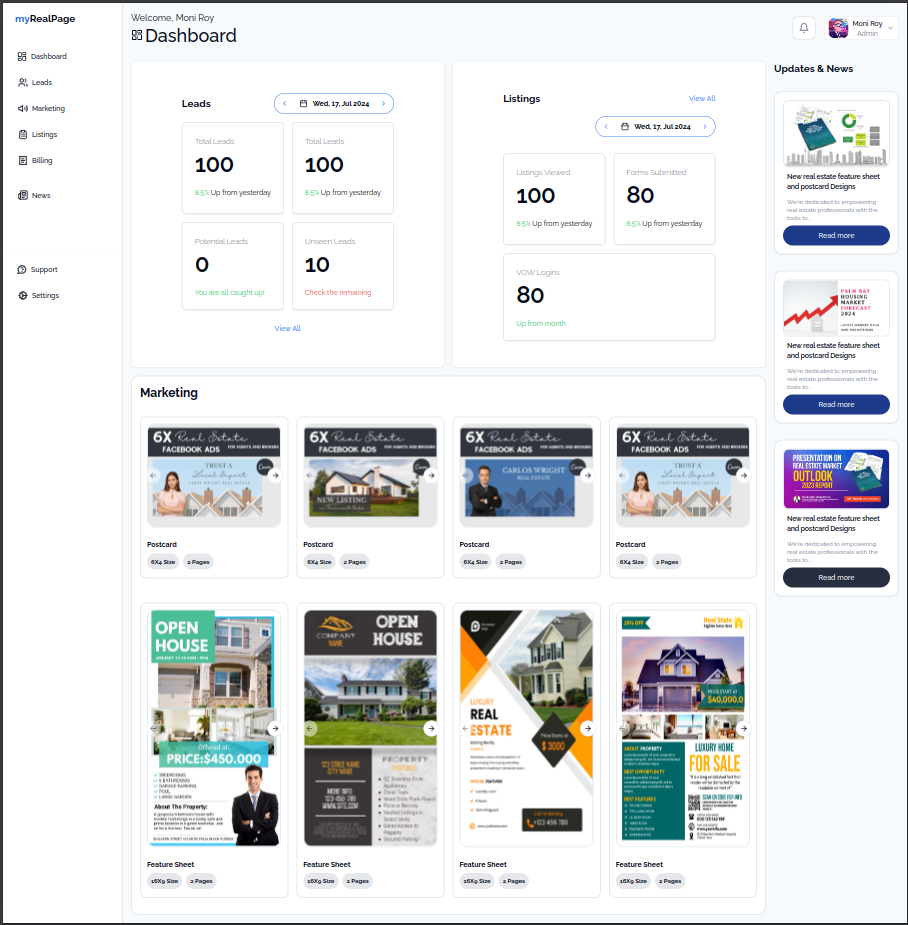
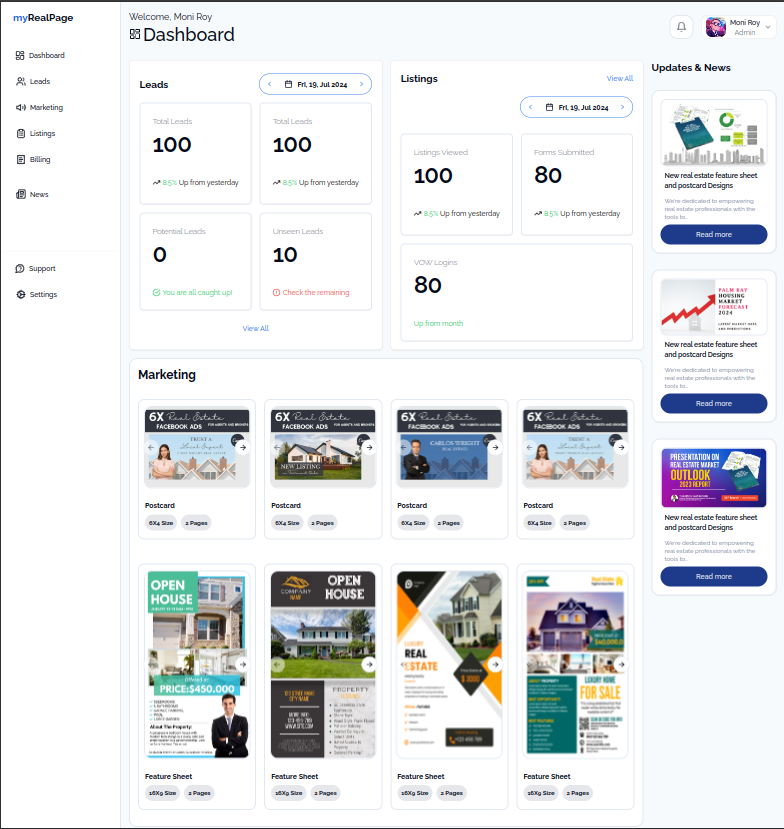
style bug fixed LeadSection and Card and add screenshots

diff --git a/src/components/LeadCard.tsx b/src/components/LeadCard.tsx
@@ -1,4 +1,5 @@
 import React from 'react';
+import { ArrowUp, CheckCircle, AlertCircle, TrendingUp } from 'lucide-react';
 import { Card, CardContent, CardDescription, CardHeader, CardTitle } from "./ui/card.tsx";
 
 const LeadCard = ({ type, count, change, status, note }) => {
@@ -8,31 +9,35 @@ const LeadCard = ({ type, count, change, status, note }) => {
         'all caught up': 'text-green-500'
     };
 
-    const statusText = {
-        up: 'Up from yesterday',
-        remaining: 'Check the remaining',
-        'all caught up': 'You are all caught up!'
+    const statusIcons = {
+        up: TrendingUp,
+        remaining: AlertCircle,
+        'all caught up': CheckCircle
     };
+
+    const StatusIcon = statusIcons[status];
 
     return (
         <div className="min-w-[175px] min-h-[175px] md:w-auto">
-            <Card className="border-2 rounded-lg flex flex-col justify-between">
+            <Card className="border-2 rounded-lg flex flex-col justify-between h-full">
                 <CardHeader className="space-y-2 xl:space-y-1 2xl:space-y-2">
                     <CardTitle className="text-base xl:text-sm 2xl:text-base font-light text-gray-500">
                         {type}
                     </CardTitle>
-                    <CardTitle className="text-3xl xl:text-3xl 2xl:text-5xl mt-0 pt-0">
+                    <CardTitle className="text-3xl xl:text-3xl 2xl:text-5xl mt-0 pt-0 pb-5">
                         {count}
                     </CardTitle>
                 </CardHeader>
                 <CardContent className="space-y-2 xl:space-y-1 2xl:space-y-2">
                     {change && (
-                        <p className="text-xs 2xl:text-sm text-black">
+                        <p className="text-xs 2xl:text-sm text-black flex items-center space-x-1 flex-nowrap">
+                            <StatusIcon className="text-black" size={16} />
                             <span className={statusStyles[status]}>{change}</span>
-                            <span>{status === 'up' ? ' Up from yesterday' : ''}</span>
+                            {status === 'up' && <span>Up from yesterday</span>}
                         </p>
                     )}
-                    <CardDescription className="text-xs 2xl:text-sm text-black">
+                    <CardDescription className="text-xs 2xl:text-sm text-black flex items-center space-x-1 flex-nowrap">
+                        {status !== 'up' && <StatusIcon className={statusStyles[status]} size={16} />}
                         <span className={statusStyles[status]}>{note}</span>
                     </CardDescription>
                 </CardContent>

diff --git a/src/components/LeadSection.tsx b/src/components/LeadSection.tsx
@@ -9,7 +9,7 @@ const leads = [
         "date": "2024-06-09",
         "type": "Total Leads",
         "count": 100,
-        "change": "8.5%",
+        "change": "8.5% ",
         "status": "up",
         "note": ""
     },
@@ -18,7 +18,7 @@ const leads = [
         "date": "2024-06-09",
         "type": "Total Leads",
         "count": 100,
-        "change": "8.5%",
+        "change": "8.5% ",
         "status": "up",
         "note": ""
     },
